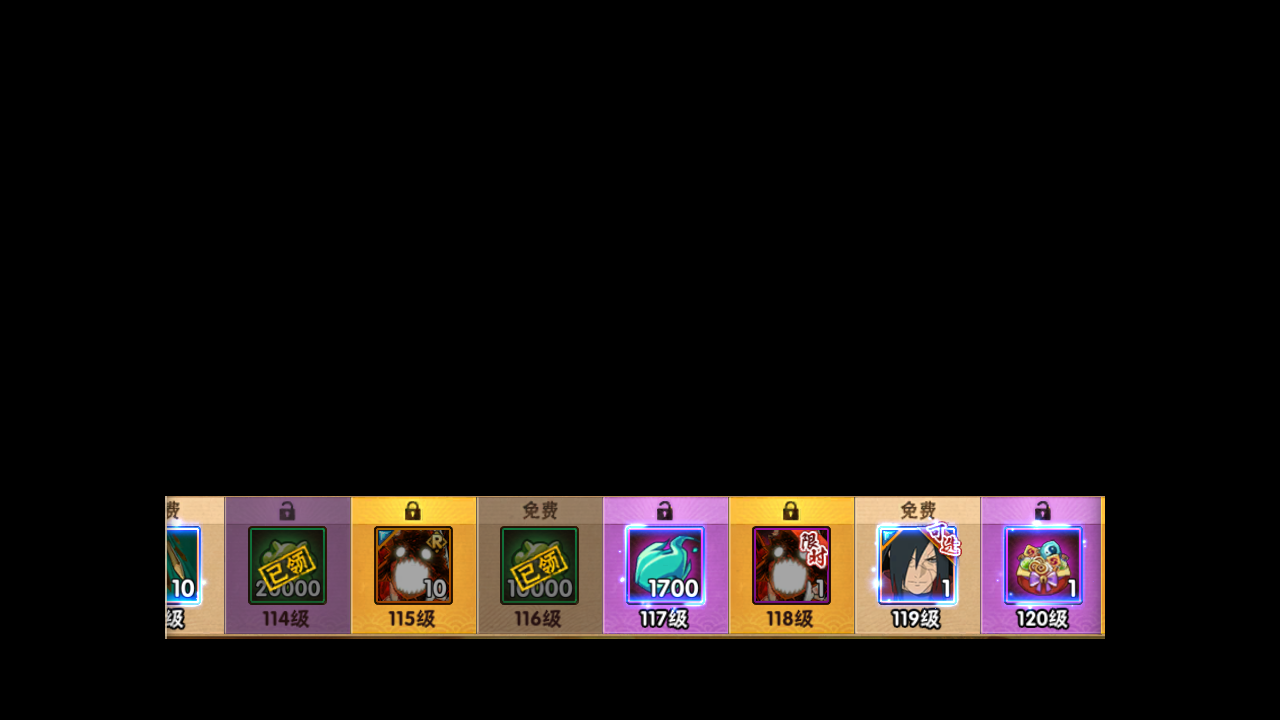
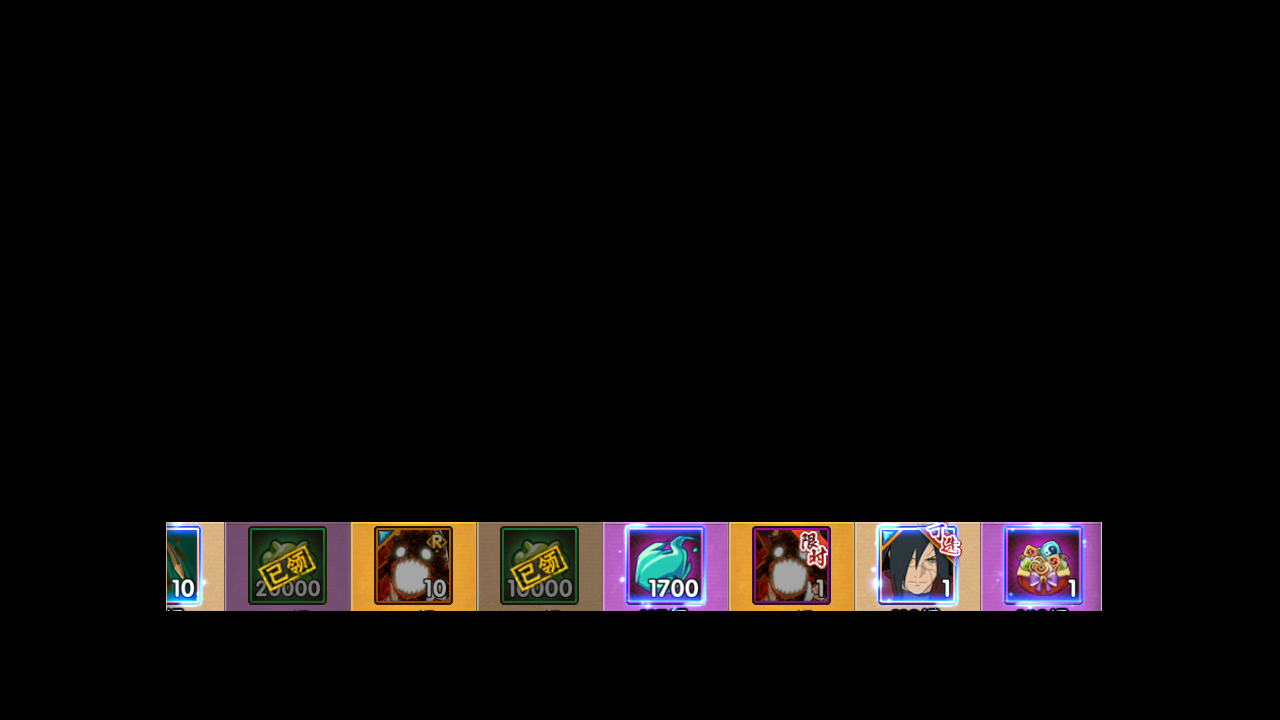
refactor(battle_order): update claim detection and button areas

Changed region(s): [[0.125, 0.825, 0.875, 0.8861], [0.125, 0.6722, 0.875, 0.7333]]

diff --git a/tasks/battle_order/claim.py b/tasks/battle_order/claim.py
@@ -1,4 +1,8 @@
 
+
+
+
+from module.logger.logger import logger 
 from module.base.timer import Timer
 from tasks.base.assets.assets_base_page import BATTLE_ORDER_CHECK
 from tasks.base.page import page_battle_order
@@ -8,7 +12,8 @@ from tasks.battle_order.assets.assets_battle_order_claim import *
 from tasks.battle_order.draglist import CHARACTER_TAB_LIST
 from tasks.base.character_keyword import CharacterTab
 from tasks.battle_order.switch import BATTLE_ORDER_TAB
-
+from module.base.button import ClickButton  
+from datetime import datetime  
 
 class BattleOrderClaim(UI):
     def handle_battle_order_claim(self):
@@ -30,14 +35,13 @@ class BattleOrderClaim(UI):
             if self.appear_then_click(BATTLE_ORDER_REWARD_CLAIM_SUCCESS,interval=0):
                 time.reset()
                 continue
-            res=self.detect_claimable_buttons(image=self.device.image,button=BATTLE_ORDER_REWARD_AREA,similarity=0.5)
-            if res and len(res)!=0:
-                if self.interval_is_reached('claimable_click', interval=1):
-                    self.device.click(res[0])
-                    self.interval_reset('claimable_click', interval=1)
-                    time.reset()
-
-
+            if self.interval_is_reached('claimable_click', interval=0.5):
+                res=self.detect_reward_boxes(image=self.device.image,button=BATTLE_ORDER_REWARD_CLAIM_AREA)
+                if res and len(res)!=0:
+                        logger.info(f"Detect {len(res)} Claimable Reward ")
+                        self.device.click(res[0])
+                        self.interval_reset('claimable_click', interval=0.5)
+                        time.reset()
     def _character_fragments_select(self):
         name=self.config.BattleOrder_CharacterFragments
         keyword=self.find_character_by_cn(name)
@@ -50,9 +54,126 @@ class BattleOrderClaim(UI):
             if self.appear_then_click(BATTLE_ORDER_CHARACTER_SELECT_CONFIRM):
                 continue
 
-# 通过中文名称查找对应的关键词对象
+        # 通过中文名称查找对应的关键词对象
     def find_character_by_cn(self,chinese_name):
         for character in CharacterTab.instances.values():
             if character.cn == chinese_name:
                 return character
         return None
+    def is_claimable_single_frame(self, image, roi, v_thresh=125, ratio_thresh=0.4, mean_v_thresh=120):
+        """
+        平均亮度 + 白色过滤
+        """
+        import cv2
+        import numpy as np
+
+        x1, y1, x2, y2 = roi
+        image = image[y1:y2, x1:x2]
+        if image.size == 0:
+            return False
+
+       
+
+        hsv = cv2.cvtColor(image, cv2.COLOR_RGB2HSV)
+        s = hsv[:, :, 1]
+        v = hsv[:, :, 2]
+
+        # 高亮像素比例（未排白）
+        high_mask = v > v_thresh
+        ratio = np.sum(high_mask) / high_mask.size if high_mask.size > 0 else 0.0
+
+        # 平均亮度（排除白色区域）
+        valid_mask = ~((s < 30) & (v > 220))
+        mean_v = np.mean(v[valid_mask]) if np.any(valid_mask) else np.mean(v)
+
+      
+        print(f"高亮像素占比: {ratio:.2f}, 平均亮度: {mean_v:.2f}")
+
+        #  双条件判定
+        return (ratio > ratio_thresh) and (mean_v > mean_v_thresh)
+
+        
+    def detect_reward_boxes(self, image, button, low=100, high=300):
+        import cv2
+       
+        
+        x1, y1, x2, y2 = button.area
+        roi = image[y1:y2, x1:x2]   
+        
+        # 转灰度 + 高斯模糊
+        gray = cv2.cvtColor(roi, cv2.COLOR_RGB2GRAY)
+        blur = cv2.GaussianBlur(gray, (5, 5), 0)
+
+        # 边缘检测
+        edges = cv2.Canny(blur, low, high)
+
+        # 闭运算，连通边缘
+        kernel = cv2.getStructuringElement(cv2.MORPH_RECT, (25, 25))
+        closed = cv2.morphologyEx(edges, cv2.MORPH_CLOSE, kernel)
+
+        # 找轮廓（在 ROI 内）
+        contours, _ = cv2.findContours(closed, cv2.RETR_EXTERNAL, cv2.CHAIN_APPROX_SIMPLE)
+        box_width=80
+        box_upper=525
+        box_lower=603
+        boxes = []
+        for cnt in contours:
+            x, y, w, h = cv2.boundingRect(cnt)
+            area = w * h
+            ratio = w / float(h)
+            
+            max_w, max_h = 90, 80  
+            peri = cv2.arcLength(cnt, True)
+            approx = cv2.approxPolyDP(cnt, 0.02 * peri, True)
+            print(f"检测到轮廓: 面积={area}, 宽高比={ratio:.2f}, 顶点数={len(approx)}")
+            # 矩形度过滤
+            rect_area = w * h
+            contour_area = cv2.contourArea(cnt)
+            extent = contour_area / float(rect_area)
+            if extent < 0.7:
+                continue
+            # 过滤条件
+           
+            if w > 95:
+                continue
+            if h < 70 or h > 90:
+                continue
+            
+
+            # 调整略大的框
+            if w > max_w:
+                over = w - max_w
+                x += over // 2
+                w -= over
+            if h > max_h:
+                over = h - max_h
+                y += over // 2
+                h -= over
+            detected_right = x + x1 + w
+            predicted_right = x + x1+ box_width
+            #  把 ROI 坐标平移回全图
+            #box=(x + x1, box_upper,min(predicted_right, detected_right),box_lower)
+            box = (x + x1, y + y1, x + x1 + w, y + y1 + h)
+            if self.is_claimable_single_frame(image=image, roi=box):
+                click_button = ClickButton(area=box) 
+                boxes.append(click_button)
+                #cv2.rectangle(image, (x + x1, box_upper), (x + x1 +box_width, box_lower), (0, 255, 0), 2)
+                cv2.rectangle(image, (x + x1, y + y1), ( x + x1 + w, y + y1 + h), (0, 255, 0), 2)
+            else:
+                #cv2.rectangle(image, (x + x1, box_upper), (x + x1 +box_width, box_lower), (255, 0, 0), 2)
+                cv2.rectangle(image, (x + x1, y + y1), ( x + x1 + w, y + y1 + h), (255, 0, 0), 2)
+            
+            
+        # 按 x 坐标排序
+        boxes.sort(key=lambda b: b.button[0])
+        image=cv2.cvtColor(image, cv2.COLOR_RGB2BGR)
+        if not self.config.Error_SaveError:  
+            return boxes
+        self.device.screenshot_deque.append({  
+        'time': datetime.now(),  
+        'image': image
+        }) 
+        self.screenshot_tracking_add()
+        return boxes
+
+

diff --git a/module/ocr/yolo.py b/module/ocr/yolo.py
@@ -16,7 +16,9 @@ class YoloResult:
         self.score = score
         self.class_id = class_id
         self.image = image
+        
         self.classes = classes if classes is not None else {0:'claimable',1:'unclaim',2:'claimed'}
+        
 
     def __repr__(self):
         x1, y1, w, h = self.box
@@ -24,7 +26,7 @@ class YoloResult:
         return f"[{cls_name} | Conf: {self.score:.2f} | BBox: ({x1},{y1},{w},{h})]"
 class YOLO11:
     """YOLO11 目标检测模型类，可动态传入类别映射。"""
-    def __init__(self, onnx_model, classes=None, confidence_thres=0.8, iou_thres=0.45):
+    def __init__(self, onnx_model, classes=None, confidence_thres=0.8, iou_thres=0.45,input_size=(640,640)):
         """
         初始化 YOLO11 类的实例。
         参数：
@@ -36,7 +38,7 @@ class YOLO11:
         self.onnx_model = onnx_model
         self.confidence_thres = confidence_thres
         self.iou_thres = iou_thres
-
+        self.input_size = input_size
         # 类别映射，可自定义
         if classes is None:
             self.classes = {0: 'claimable', 1: 'unclaim', 2: 'claimed'}
@@ -67,7 +69,7 @@ class YOLO11:
             self.img = image
        
         
-        img, self.ratio, (self.dw, self.dh) = self.letterbox(self.img, new_shape=(640, 640))
+        img, self.ratio, (self.dw, self.dh) = self.letterbox(self.img, new_shape=self.input_size)
         
         image_data = np.array(img) / 255.0
         image_data = np.transpose(image_data, (2, 0, 1))  # 通道优先

diff --git a/module/ocr/yolomodel.py b/module/ocr/yolomodel.py
@@ -5,15 +5,17 @@ from module.ocr.yolo import YOLO11
 
 class YoloModel:
     def __init__(self, model_path="module/ocr/claim.onnx",
-                 conf_thres=0.8, iou_thres=0.45,classes=None,):
+                 conf_thres=0.8, iou_thres=0.45,classes=None,intput_size=(640,640)):
         self.model_path = model_path
         self.conf_thres = conf_thres
         self.iou_thres = iou_thres
         self.classes = None
+        self.input_size = intput_size
 
-    def get_model(self, model_path=None,classes=None):
+    def get_model(self, model_path=None,classes=None,input_size=(640,640)):
         """返回模型对象，可以动态切换模型"""
         if model_path and model_path != self.model_path:
+            self.input_size = input_size
             # 如果传入新模型路径，就替换掉旧模型
             self.model_path = model_path
             self.classes = classes
@@ -30,7 +32,8 @@ class YoloModel:
         try:
             detector = YOLO11(
                 onnx_model=self.model_path,
-                classes=self.classes
+                classes=self.classes,
+                input_size=self.input_size
             )
             return detector
         except Exception as e:

diff --git a/module/base/base.py b/module/base/base.py
@@ -18,7 +18,7 @@ class ModuleBase:
     device: Device
     @cached_property
     def yolo_model(self):
-        return YOLO_MODEL.get_model()
+        return YOLO_MODEL.get_model(input_size=(1280,720))
     def __init__(self, config, device=None, task=None):
         """
         Args:
@@ -510,7 +510,7 @@ class ModuleBase:
         data = self.device.screenshot_deque[-1]
         image = data['image']
         now = data['time']
-
+        
         def image_encode(im, ti):
             import io
             from module.handler.sensitive_info import handle_sensitive_image

diff --git a/tasks/battle_order/assets/assets_battle_order_claim.py b/tasks/battle_order/assets/assets_battle_order_claim.py
@@ -84,10 +84,10 @@ BATTLE_ORDER_REWARD_CLAIM_AREA = ButtonWrapper(
     name='BATTLE_ORDER_REWARD_CLAIM_AREA',
     cn=Button(
         file='./assets/cn/battle_order/claim/BATTLE_ORDER_REWARD_CLAIM_AREA.png',
-        area=(165, 496, 1105, 639),
-        search=(145, 476, 1125, 659),
-        color=(152, 118, 108),
-        button=(165, 496, 1105, 639),
+        area=(166, 522, 1102, 611),
+        search=(146, 502, 1122, 631),
+        color=(135, 107, 104),
+        button=(166, 522, 1102, 611),
     ),
     en=None,
 )

diff --git a/tasks/battle_order/weekly_reward.py b/tasks/battle_order/weekly_reward.py
@@ -25,3 +25,4 @@ class BattleOrderWeeklyReward(UI):
                     self.device.click(res[0])
                     self.interval_reset('claimable_click', interval=1)
                     time.reset()
+        
